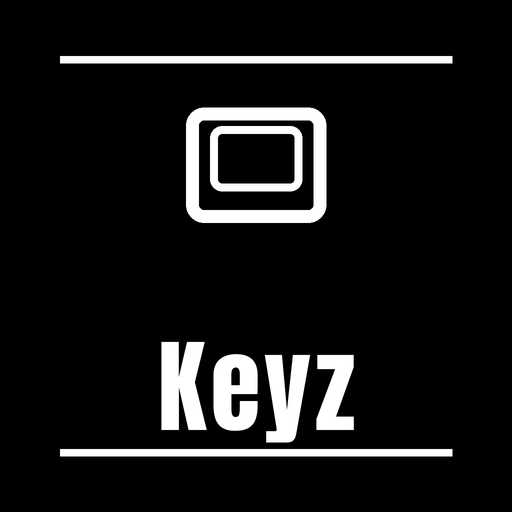
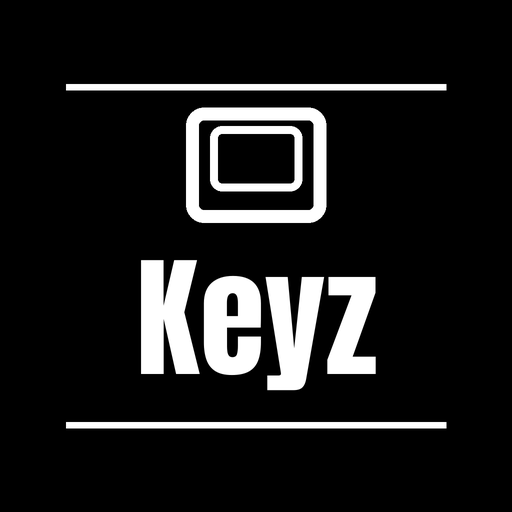
Enlarge Keyz wordmark and refresh Appz cache

Changed region(s): [[0.0938, 0.5, 0.9062, 0.9062], [0.0938, 0.0938, 0.9062, 0.125], [0.125, 0.1562, 0.875, 0.1875]]

diff --git a/index.html b/index.html
@@ -6,9 +6,9 @@
 <meta name="theme-color" content="#0e1114">
 <meta name="apple-mobile-web-app-capable" content="yes">
 <meta name="apple-mobile-web-app-status-bar-style" content="black-translucent">
-<link rel="manifest" href="./manifest.json">
-<link rel="apple-touch-icon" href="./icon-192.png">
-<link rel="icon" href="./icon-192.png">
+<link rel="manifest" href="./manifest.json?v=20260718-3">
+<link rel="apple-touch-icon" href="./icon-192.png?v=20260718-3">
+<link rel="icon" href="./icon-192.png?v=20260718-3">
 <title>Keyz — ショートカット早見表</title>
 <style>
   :root{

diff --git a/appz/index.html b/appz/index.html
@@ -1,6 +1,6 @@
 <!DOCTYPE html>
 <html lang="ja">
 <head>
-<meta charset="UTF-8"><meta name="viewport" content="width=device-width,initial-scale=1,viewport-fit=cover"><meta name="theme-color" content="#0b0b0e"><meta name="apple-mobile-web-app-capable" content="yes"><meta name="apple-mobile-web-app-status-bar-style" content="black-translucent"><meta name="apple-mobile-web-app-title" content="Appz"><link rel="manifest" href="./manifest.json"><link rel="apple-touch-icon" href="../icon-192.png"><link rel="icon" href="../icon-192.png"><title>Appz</title>
+<meta charset="UTF-8"><meta name="viewport" content="width=device-width,initial-scale=1,viewport-fit=cover"><meta name="theme-color" content="#0b0b0e"><meta name="apple-mobile-web-app-capable" content="yes"><meta name="apple-mobile-web-app-status-bar-style" content="black-translucent"><meta name="apple-mobile-web-app-title" content="Appz"><link rel="manifest" href="./manifest.json?v=[phone redacted]"><link rel="apple-touch-icon" href="../icon-192.png?v=[phone redacted]"><link rel="icon" href="../icon-192.png?v=[phone redacted]"><title>Appz</title>
 <style>:root{--bg:#0b0b0e;--panel:#15151b;--panel2:#1d1d25;--line:#2b2b35;--text:#f5f3ee;--muted:#9898a4;--amber:#ff9e2c;--cyan:#22d3ee;--green:#4ade80;--orange:#ff6b35}*{box-sizing:border-box;-webkit-tap-highlight-color:transparent}html,body{margin:0;background:var(--bg);color:var(--text);font-family:-apple-system,BlinkMacSystemFont,"Hiragino Sans","Segoe UI",sans-serif}body{min-height:100dvh;padding:max(18px,env(safe-area-inset-top)) 15px calc(30px + env(safe-area-inset-bottom));max-width:560px;margin:0 auto}header{display:flex;align-items:flex-end;justify-content:space-between;margin:4px 2px 20px}.brand h1{font-size:42px;line-height:.9;margin:0;font-weight:950;letter-spacing:-1px}.brand h1 span{color:var(--amber)}.brand p{font-size:10px;color:var(--muted);letter-spacing:2.5px;margin:8px 0 0;font-weight:800}.clock{text-align:right}.clock b{display:block;font-size:22px;line-height:1;font-variant-numeric:tabular-nums;color:var(--cyan)}.clock small{font-size:11px;color:var(--muted)}.hero{background:linear-gradient(145deg,#21170c,var(--panel));border:1px solid #4b3420;border-radius:20px;padding:16px;margin-bottom:18px;position:relative;overflow:hidden}.hero:after{content:"";position:absolute;width:150px;height:150px;border-radius:50%;background:rgba(255,158,44,.09);right:-45px;top:-70px}.hero .eyebrow{font-size:10px;letter-spacing:2px;color:var(--amber);font-weight:900}.hero h2{font-size:21px;margin:5px 0 3px;position:relative;z-index:1}.hero p{font-size:12px;color:var(--muted);margin:0;position:relative;z-index:1}.recent{display:none;margin-top:13px;position:relative;z-index:1}.recent.on{display:flex}.recent button{width:100%;border:0;border-radius:12px;padding:12px 14px;background:var(--amber);color:#221304;font-weight:900;font-size:14px;text-align:left}.sec{font-size:10px;letter-spacing:2px;color:var(--muted);font-weight:900;margin:18px 3px 9px}.grid{display:grid;grid-template-columns:1fr 1fr;gap:10px}.card{--accent:var(--amber);display:flex;align-items:center;gap:11px;min-height:92px;padding:13px;background:var(--panel);border:1px solid var(--line);border-radius:17px;color:var(--text);text-decoration:none;position:relative;overflow:hidden;transition:.08s}.card:active{transform:scale(.975);background:var(--panel2)}.card:before{content:"";position:absolute;left:0;top:0;bottom:0;width:3px;background:var(--accent)}.card.cyan{--accent:var(--cyan)}.card.green{--accent:var(--green)}.card.orange{--accent:var(--orange)}.icon{width:45px;height:45px;border-radius:12px;background:#09090b;flex:none;object-fit:cover;border:1px solid #33333c}.fallback{width:45px;height:45px;border-radius:12px;background:var(--accent);color:#101014;display:none;align-items:center;justify-content:center;font-weight:950;font-size:20px;flex:none}.card h3{font-size:17px;line-height:1.1;margin:0}.card p{font-size:10.5px;line-height:1.35;color:var(--muted);margin:5px 0 0}.card .arrow{margin-left:auto;color:var(--accent);font-size:17px;font-weight:900}.full{grid-column:1/-1;min-height:76px}.status{display:flex;justify-content:center;gap:7px;margin-top:20px;color:var(--muted);font-size:10px}.status i{width:7px;height:7px;border-radius:50%;background:var(--green);margin-top:3px}footer{text-align:center;color:#555560;font-size:10px;margin-top:18px;letter-spacing:1px}@media(max-width:360px){.grid{grid-template-columns:1fr}.full{grid-column:auto}}@media(prefers-reduced-motion:reduce){*{transition:none!important}}</style></head>
-<body><header><div class="brand"><h1>App<span>z</span></h1><p>KEDY TOOL DECK</p></div><div class="clock"><b id="time">--:--</b><small id="date">----</small></div></header><section class="hero"><div class="eyebrow">7 APPS · GITHUB PAGES</div><h2>使う道具を、ここから。</h2><p>英語・音楽・制作・トレーニングを1画面に集約。</p><div class="recent" id="recent"><button id="recentBtn"></button></div></section><div class="sec">LEARN</div><div class="grid"><a class="card cyan" data-id="flowz" data-name="Flowz" href="https://xxkedy.github.io/flowz/"><img class="icon" src="https://xxkedy.github.io/flowz/icon-180.png" alt=""><span class="fallback">F</span><span><h3>Flowz</h3><p>英語スピーキング</p></span><span class="arrow">›</span></a><a class="card" data-id="slango" data-name="Slango" href="https://xxkedy.github.io/slango/"><img class="icon" src="https://xxkedy.github.io/slango/icon-180.png" alt=""><span class="fallback">S</span><span><h3>Slango</h3><p>スラング4択ドリル</p></span><span class="arrow">›</span></a><a class="card orange" data-id="digz" data-name="Digz" href="https://xxkedy.github.io/digz/"><img class="icon" src="https://xxkedy.github.io/digz/icon-180.png?v=[phone redacted]" alt=""><span class="fallback">D</span><span><h3>Digz</h3><p>歌詞ディグ管理</p></span><span class="arrow">›</span></a><a class="card green" data-id="earz" data-name="Earz" href="https://xxkedy.github.io/earz/"><img class="icon" src="https://xxkedy.github.io/earz/icon.png" alt=""><span class="fallback">E</span><span><h3>Earz</h3><p>耳トレ・コード聴取</p></span><span class="arrow">›</span></a></div><div class="sec">CREATE</div><div class="grid"><a class="card" data-id="tagz" data-name="Tagz" href="https://xxkedy.github.io/tagz/"><img class="icon" src="https://xxkedy.github.io/tagz/icon-180.png?v=[phone redacted]" alt=""><span class="fallback">T</span><span><h3>Tagz</h3><p>ビート名・出品ブロック</p></span><span class="arrow">›</span></a><a class="card cyan" data-id="keyz" data-name="Keyz" href="https://xxkedy.github.io/keyz/"><img class="icon" src="https://xxkedy.github.io/keyz/icon-192.png?v=[phone redacted]" alt=""><span class="fallback">K</span><span><h3>Keyz</h3><p>ショートカット早見表</p></span><span class="arrow">›</span></a></div><div class="sec">BODY</div><div class="grid"><a class="card green full" data-id="gainz" data-name="Gainz" href="https://xxkedy.github.io/gainz/"><img class="icon" src="https://xxkedy.github.io/gainz/icon-180.png" alt=""><span class="fallback">G</span><span><h3>Gainz</h3><p>Push / Pull / Light · 家トレ記録</p></span><span class="arrow">›</span></a></div><div class="status"><i></i><span>7 apps online</span></div><footer>Appz v1 · [phone redacted]</footer><script>(function(){var LAST_KEY='appz_last',cards=[].slice.call(document.querySelectorAll('.card'));function tick(){var d=new Date();document.getElementById('time').textContent=d.toLocaleTimeString('ja-JP',{hour:'2-digit',minute:'2-digit'});document.getElementById('date').textContent=d.toLocaleDateString('ja-JP',{month:'numeric',day:'numeric',weekday:'short'})}function showRecent(){var raw=null;try{raw=localStorage.getItem(LAST_KEY)}catch(e){}if(!raw)return;try{var x=JSON.parse(raw),card=cards.find(function(c){return c.dataset.id===x.id});if(!card)return;var box=document.getElementById('recent'),btn=document.getElementById('recentBtn');btn.textContent='前回の '+x.name+' を開く  →';btn.onclick=function(){location.href=card.href};box.classList.add('on')}catch(e){}}cards.forEach(function(card){var img=card.querySelector('img'),fallback=card.querySelector('.fallback');img.addEventListener('error',function(){img.style.display='none';fallback.style.display='flex'});card.addEventListener('click',function(){try{localStorage.setItem(LAST_KEY,JSON.stringify({id:card.dataset.id,name:card.dataset.name}))}catch(e){}if(navigator.vibrate)navigator.vibrate(12)})});tick();setInterval(tick,30000);showRecent();if('serviceWorker' in navigator)navigator.serviceWorker.register('./sw.js').catch(function(){})})();</script></body></html>
+<body><header><div class="brand"><h1>App<span>z</span></h1><p>KEDY TOOL DECK</p></div><div class="clock"><b id="time">--:--</b><small id="date">----</small></div></header><section class="hero"><div class="eyebrow">7 APPS · GITHUB PAGES</div><h2>使う道具を、ここから。</h2><p>英語・音楽・制作・トレーニングを1画面に集約。</p><div class="recent" id="recent"><button id="recentBtn"></button></div></section><div class="sec">LEARN</div><div class="grid"><a class="card cyan" data-id="flowz" data-name="Flowz" href="https://xxkedy.github.io/flowz/"><img class="icon" src="https://xxkedy.github.io/flowz/icon-180.png" alt=""><span class="fallback">F</span><span><h3>Flowz</h3><p>英語スピーキング</p></span><span class="arrow">›</span></a><a class="card" data-id="slango" data-name="Slango" href="https://xxkedy.github.io/slango/"><img class="icon" src="https://xxkedy.github.io/slango/icon-180.png" alt=""><span class="fallback">S</span><span><h3>Slango</h3><p>スラング4択ドリル</p></span><span class="arrow">›</span></a><a class="card orange" data-id="digz" data-name="Digz" href="https://xxkedy.github.io/digz/"><img class="icon" src="https://xxkedy.github.io/digz/icon-180.png?v=[phone redacted]" alt=""><span class="fallback">D</span><span><h3>Digz</h3><p>歌詞ディグ管理</p></span><span class="arrow">›</span></a><a class="card green" data-id="earz" data-name="Earz" href="https://xxkedy.github.io/earz/"><img class="icon" src="https://xxkedy.github.io/earz/icon.png" alt=""><span class="fallback">E</span><span><h3>Earz</h3><p>耳トレ・コード聴取</p></span><span class="arrow">›</span></a></div><div class="sec">CREATE</div><div class="grid"><a class="card" data-id="tagz" data-name="Tagz" href="https://xxkedy.github.io/tagz/"><img class="icon" src="https://xxkedy.github.io/tagz/icon-180.png?v=[phone redacted]" alt=""><span class="fallback">T</span><span><h3>Tagz</h3><p>ビート名・出品ブロック</p></span><span class="arrow">›</span></a><a class="card cyan" data-id="keyz" data-name="Keyz" href="https://xxkedy.github.io/keyz/"><img class="icon" src="https://xxkedy.github.io/keyz/icon-192.png?v=[phone redacted]" alt=""><span class="fallback">K</span><span><h3>Keyz</h3><p>ショートカット早見表</p></span><span class="arrow">›</span></a></div><div class="sec">BODY</div><div class="grid"><a class="card green full" data-id="gainz" data-name="Gainz" href="https://xxkedy.github.io/gainz/"><img class="icon" src="https://xxkedy.github.io/gainz/icon-180.png" alt=""><span class="fallback">G</span><span><h3>Gainz</h3><p>Push / Pull / Light · 家トレ記録</p></span><span class="arrow">›</span></a></div><div class="status"><i></i><span>7 apps online</span></div><footer>Appz v2 · [phone redacted]</footer><script>(function(){var LAST_KEY='appz_last',cards=[].slice.call(document.querySelectorAll('.card'));function tick(){var d=new Date();document.getElementById('time').textContent=d.toLocaleTimeString('ja-JP',{hour:'2-digit',minute:'2-digit'});document.getElementById('date').textContent=d.toLocaleDateString('ja-JP',{month:'numeric',day:'numeric',weekday:'short'})}function showRecent(){var raw=null;try{raw=localStorage.getItem(LAST_KEY)}catch(e){}if(!raw)return;try{var x=JSON.parse(raw),card=cards.find(function(c){return c.dataset.id===x.id});if(!card)return;var box=document.getElementById('recent'),btn=document.getElementById('recentBtn');btn.textContent='前回の '+x.name+' を開く  →';btn.onclick=function(){location.href=card.href};box.classList.add('on')}catch(e){}}cards.forEach(function(card){var img=card.querySelector('img'),fallback=card.querySelector('.fallback');img.addEventListener('error',function(){img.style.display='none';fallback.style.display='flex'});card.addEventListener('click',function(){try{localStorage.setItem(LAST_KEY,JSON.stringify({id:card.dataset.id,name:card.dataset.name}))}catch(e){}if(navigator.vibrate)navigator.vibrate(12)})});tick();setInterval(tick,30000);showRecent();if('serviceWorker' in navigator)navigator.serviceWorker.register('./sw.js').catch(function(){})})();</script></body></html>

diff --git a/appz/sw.js b/appz/sw.js
@@ -1,5 +1,5 @@
-const CACHE='appz-v2';
-const LOCAL=['./','./index.html','./manifest.json','../icon-192.png'];
+const CACHE='appz-v3';
+const LOCAL=['./','./index.html','./manifest.json?v=20260718-3','../icon-192.png?v=20260718-3'];
 self.addEventListener('install',event=>{event.waitUntil(caches.open(CACHE).then(cache=>cache.addAll(LOCAL)).then(()=>self.skipWaiting()))});
 self.addEventListener('activate',event=>{event.waitUntil(caches.keys().then(keys=>Promise.all(keys.filter(k=>k!==CACHE).map(k=>caches.delete(k)))).then(()=>self.clients.claim()))});
 self.addEventListener('fetch',event=>{if(new URL(event.request.url).origin!==location.origin)return;event.respondWith(fetch(event.request).then(response=>{const copy=response.clone();caches.open(CACHE).then(cache=>cache.put(event.request,copy));return response}).catch(()=>caches.match(event.request).then(hit=>hit||caches.match('./'))))});

diff --git a/sw.js b/sw.js
@@ -1,5 +1,5 @@
-const C = 'keyz-v2';
-const ASSETS = ['./', './index.html', './manifest.json', './icon-192.png', './icon-512.png'];
+const C = 'keyz-v3';
+const ASSETS = ['./', './index.html', './manifest.json?v=20260718-3', './icon-192.png?v=20260718-3', './icon-512.png?v=20260718-3'];
 self.addEventListener('install', e => {
   e.waitUntil(caches.open(C).then(c => c.addAll(ASSETS)));
   self.skipWaiting();

diff --git a/make_icons.py b/make_icons.py
@@ -11,7 +11,8 @@ S = 1024          # 原寸
 W = 26            # 記号の線幅
 WHITE = "#ffffff"
 BLACK = "#000000"
-UNIFORM_WORDMARK_SIZE = 205
+UNIFORM_WORDMARK_SIZE = 265
+UNIFORM_WORDMARK_TOP = 436
 
 
 def sym_keyz(d, cx, cy):      # キーキャップ
@@ -75,7 +76,7 @@ APPS = {
 
 def uniform_wordmark(d, text, base_y, size):
     font = ImageFont.truetype(FONT, size)
-    gap = 7
+    gap = 0
     widths = []
     for ch in text:
         b = d.textbbox((0, 0), ch, font=font)
@@ -83,13 +84,13 @@ def uniform_wordmark(d, text, base_y, size):
     total = sum(widths) + gap * (len(text) - 1)
     x = (S - total) / 2
     for ch, width in zip(text, widths):
-        d.text((x, base_y), ch, font=font, fill=WHITE, anchor="ls")
+        d.text((x, base_y), ch, font=font, fill=WHITE)
         x += width + gap
 
 
 def wordmark(d, name, base_y):
     if name in {"digz", "tagz", "keyz"}:
-        uniform_wordmark(d, name.capitalize(), base_y, UNIFORM_WORDMARK_SIZE)
+        uniform_wordmark(d, name.capitalize(), UNIFORM_WORDMARK_TOP, UNIFORM_WORDMARK_SIZE)
         return
 
     # 既存アプリは従来の大小交互表記を維持
@@ -119,8 +120,8 @@ def wordmark(d, name, base_y):
 def make(name):
     img = Image.new("RGB", (S, S), BLACK)
     d = ImageDraw.Draw(img)
-    d.rectangle([120, 112, S-120, 126], fill=WHITE)
-    d.rectangle([120, S-126, S-120, S-112], fill=WHITE)
+    d.rectangle([132, 168, S-132, 180], fill=WHITE)
+    d.rectangle([132, 844, S-132, 856], fill=WHITE)
     APPS[name](d, S/2, 330)
     wordmark(d, name, 860)
     return img